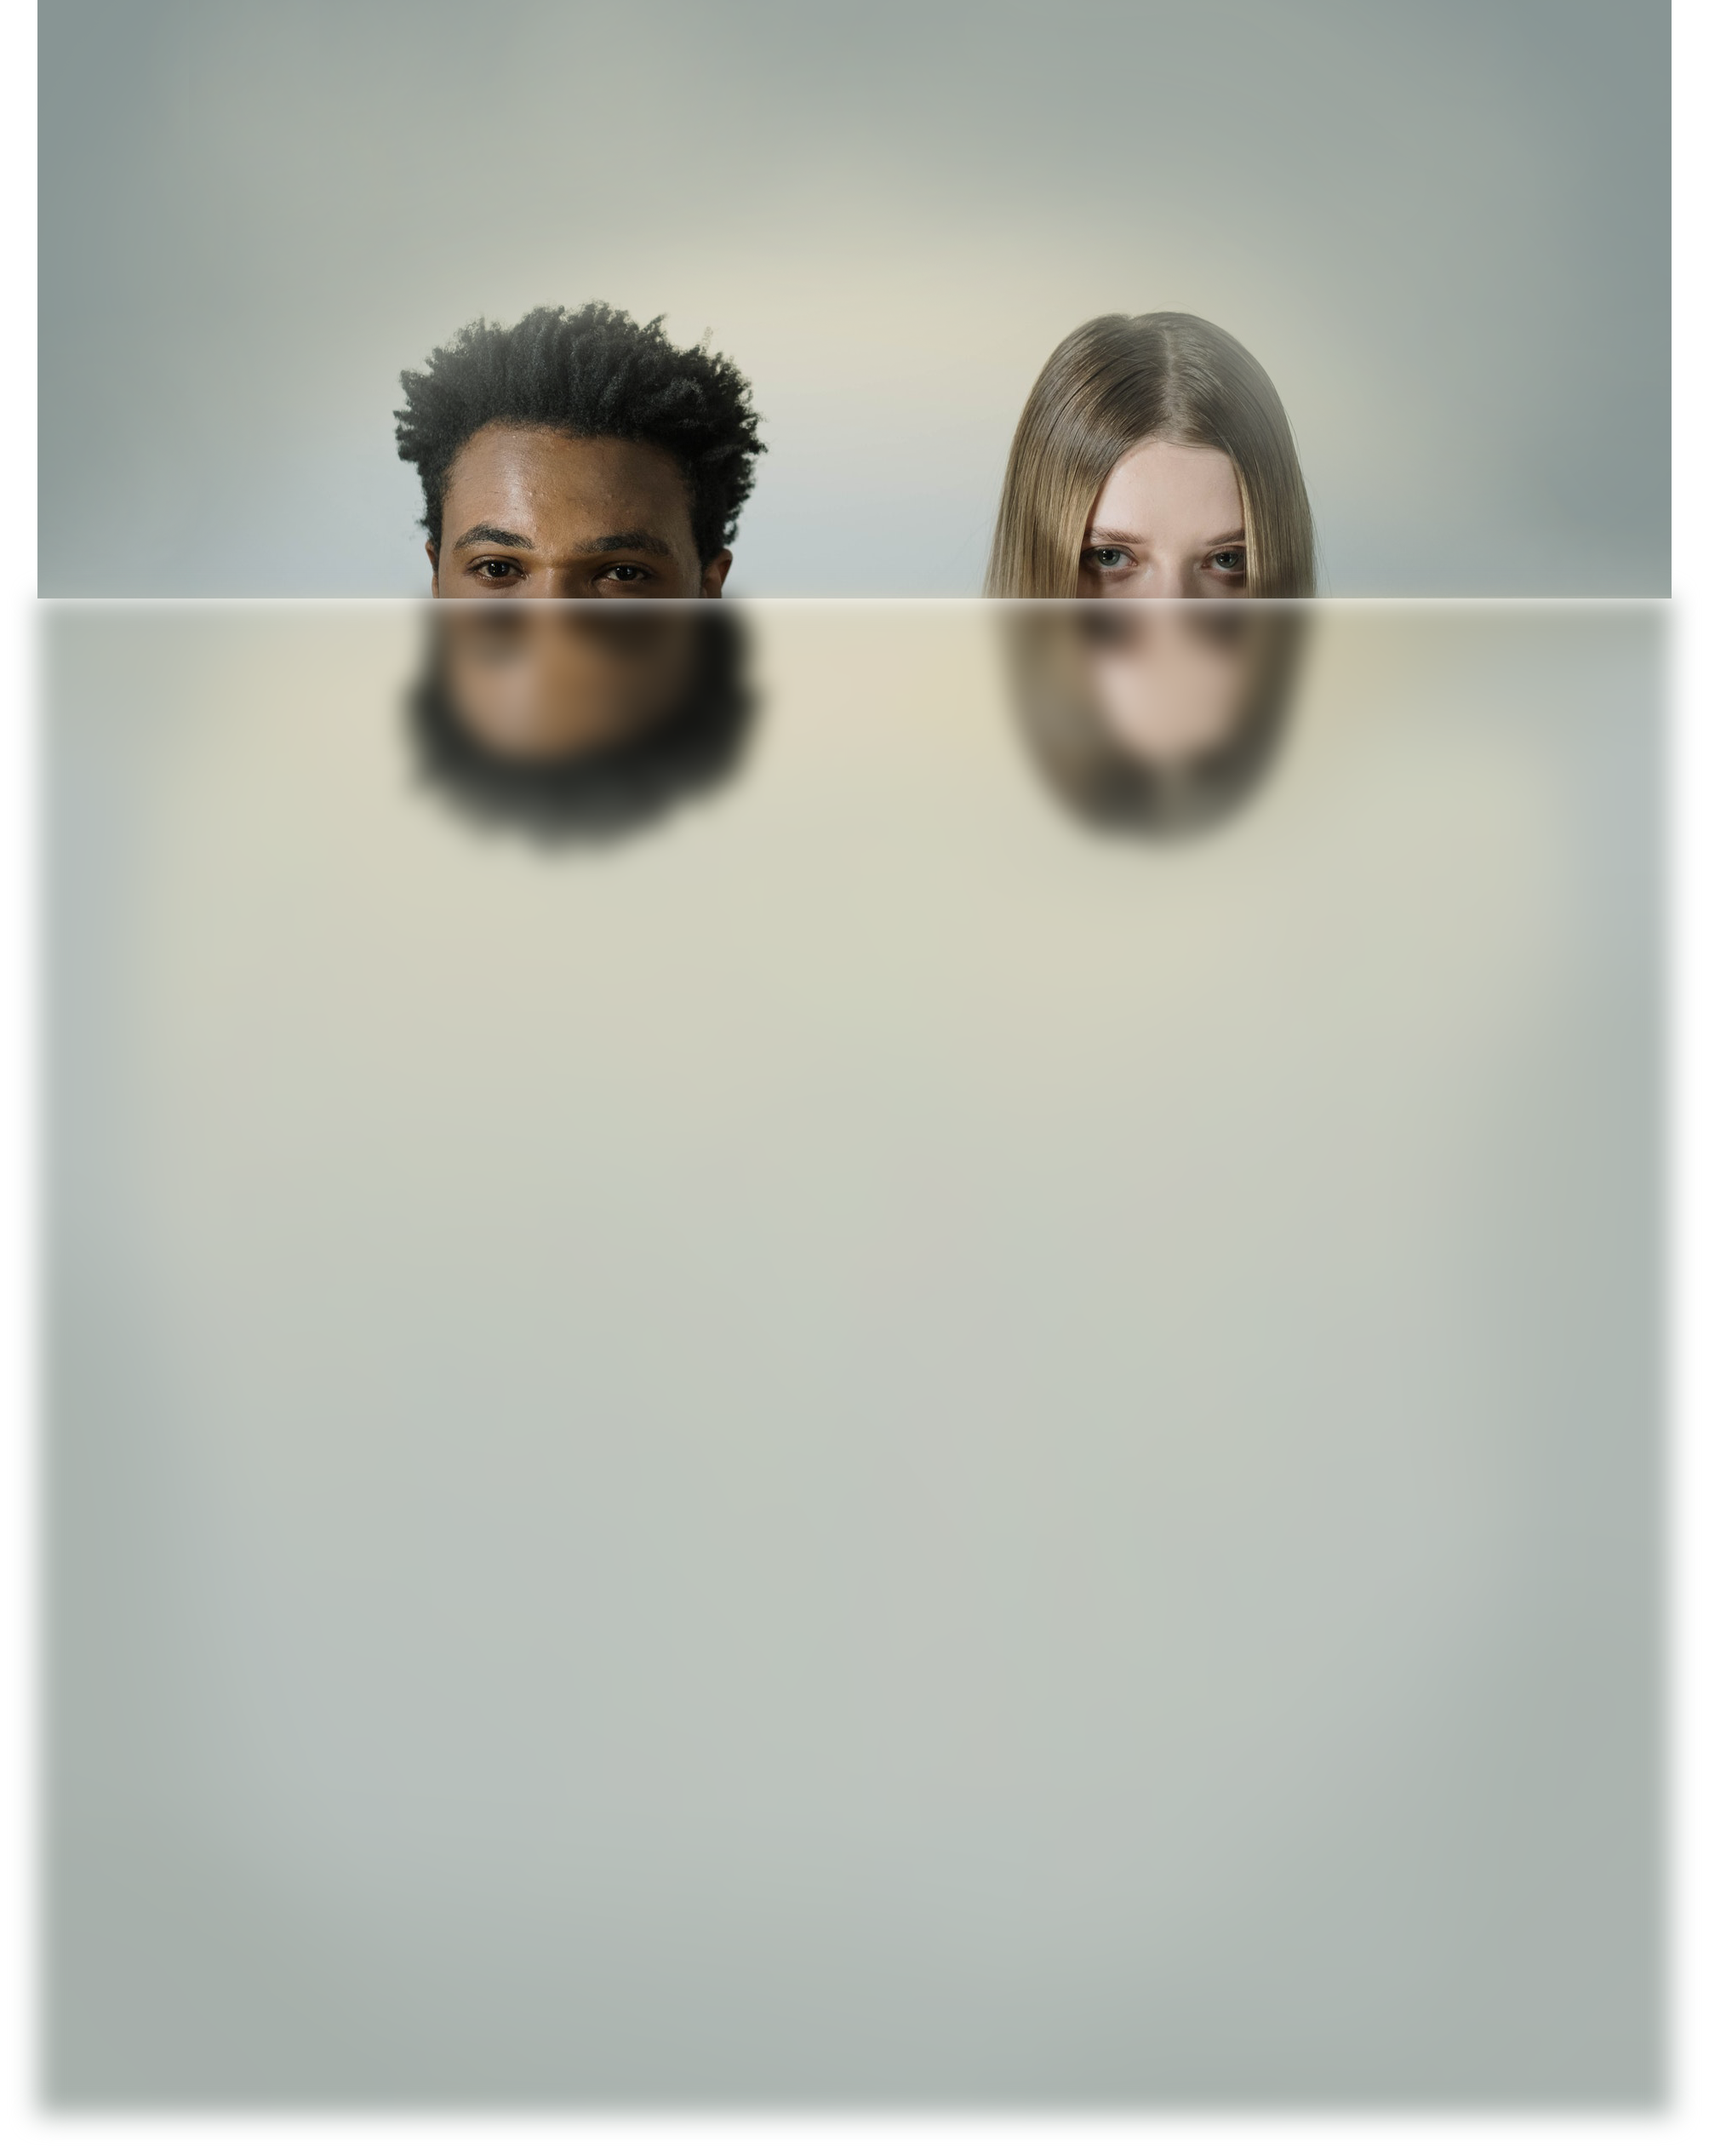
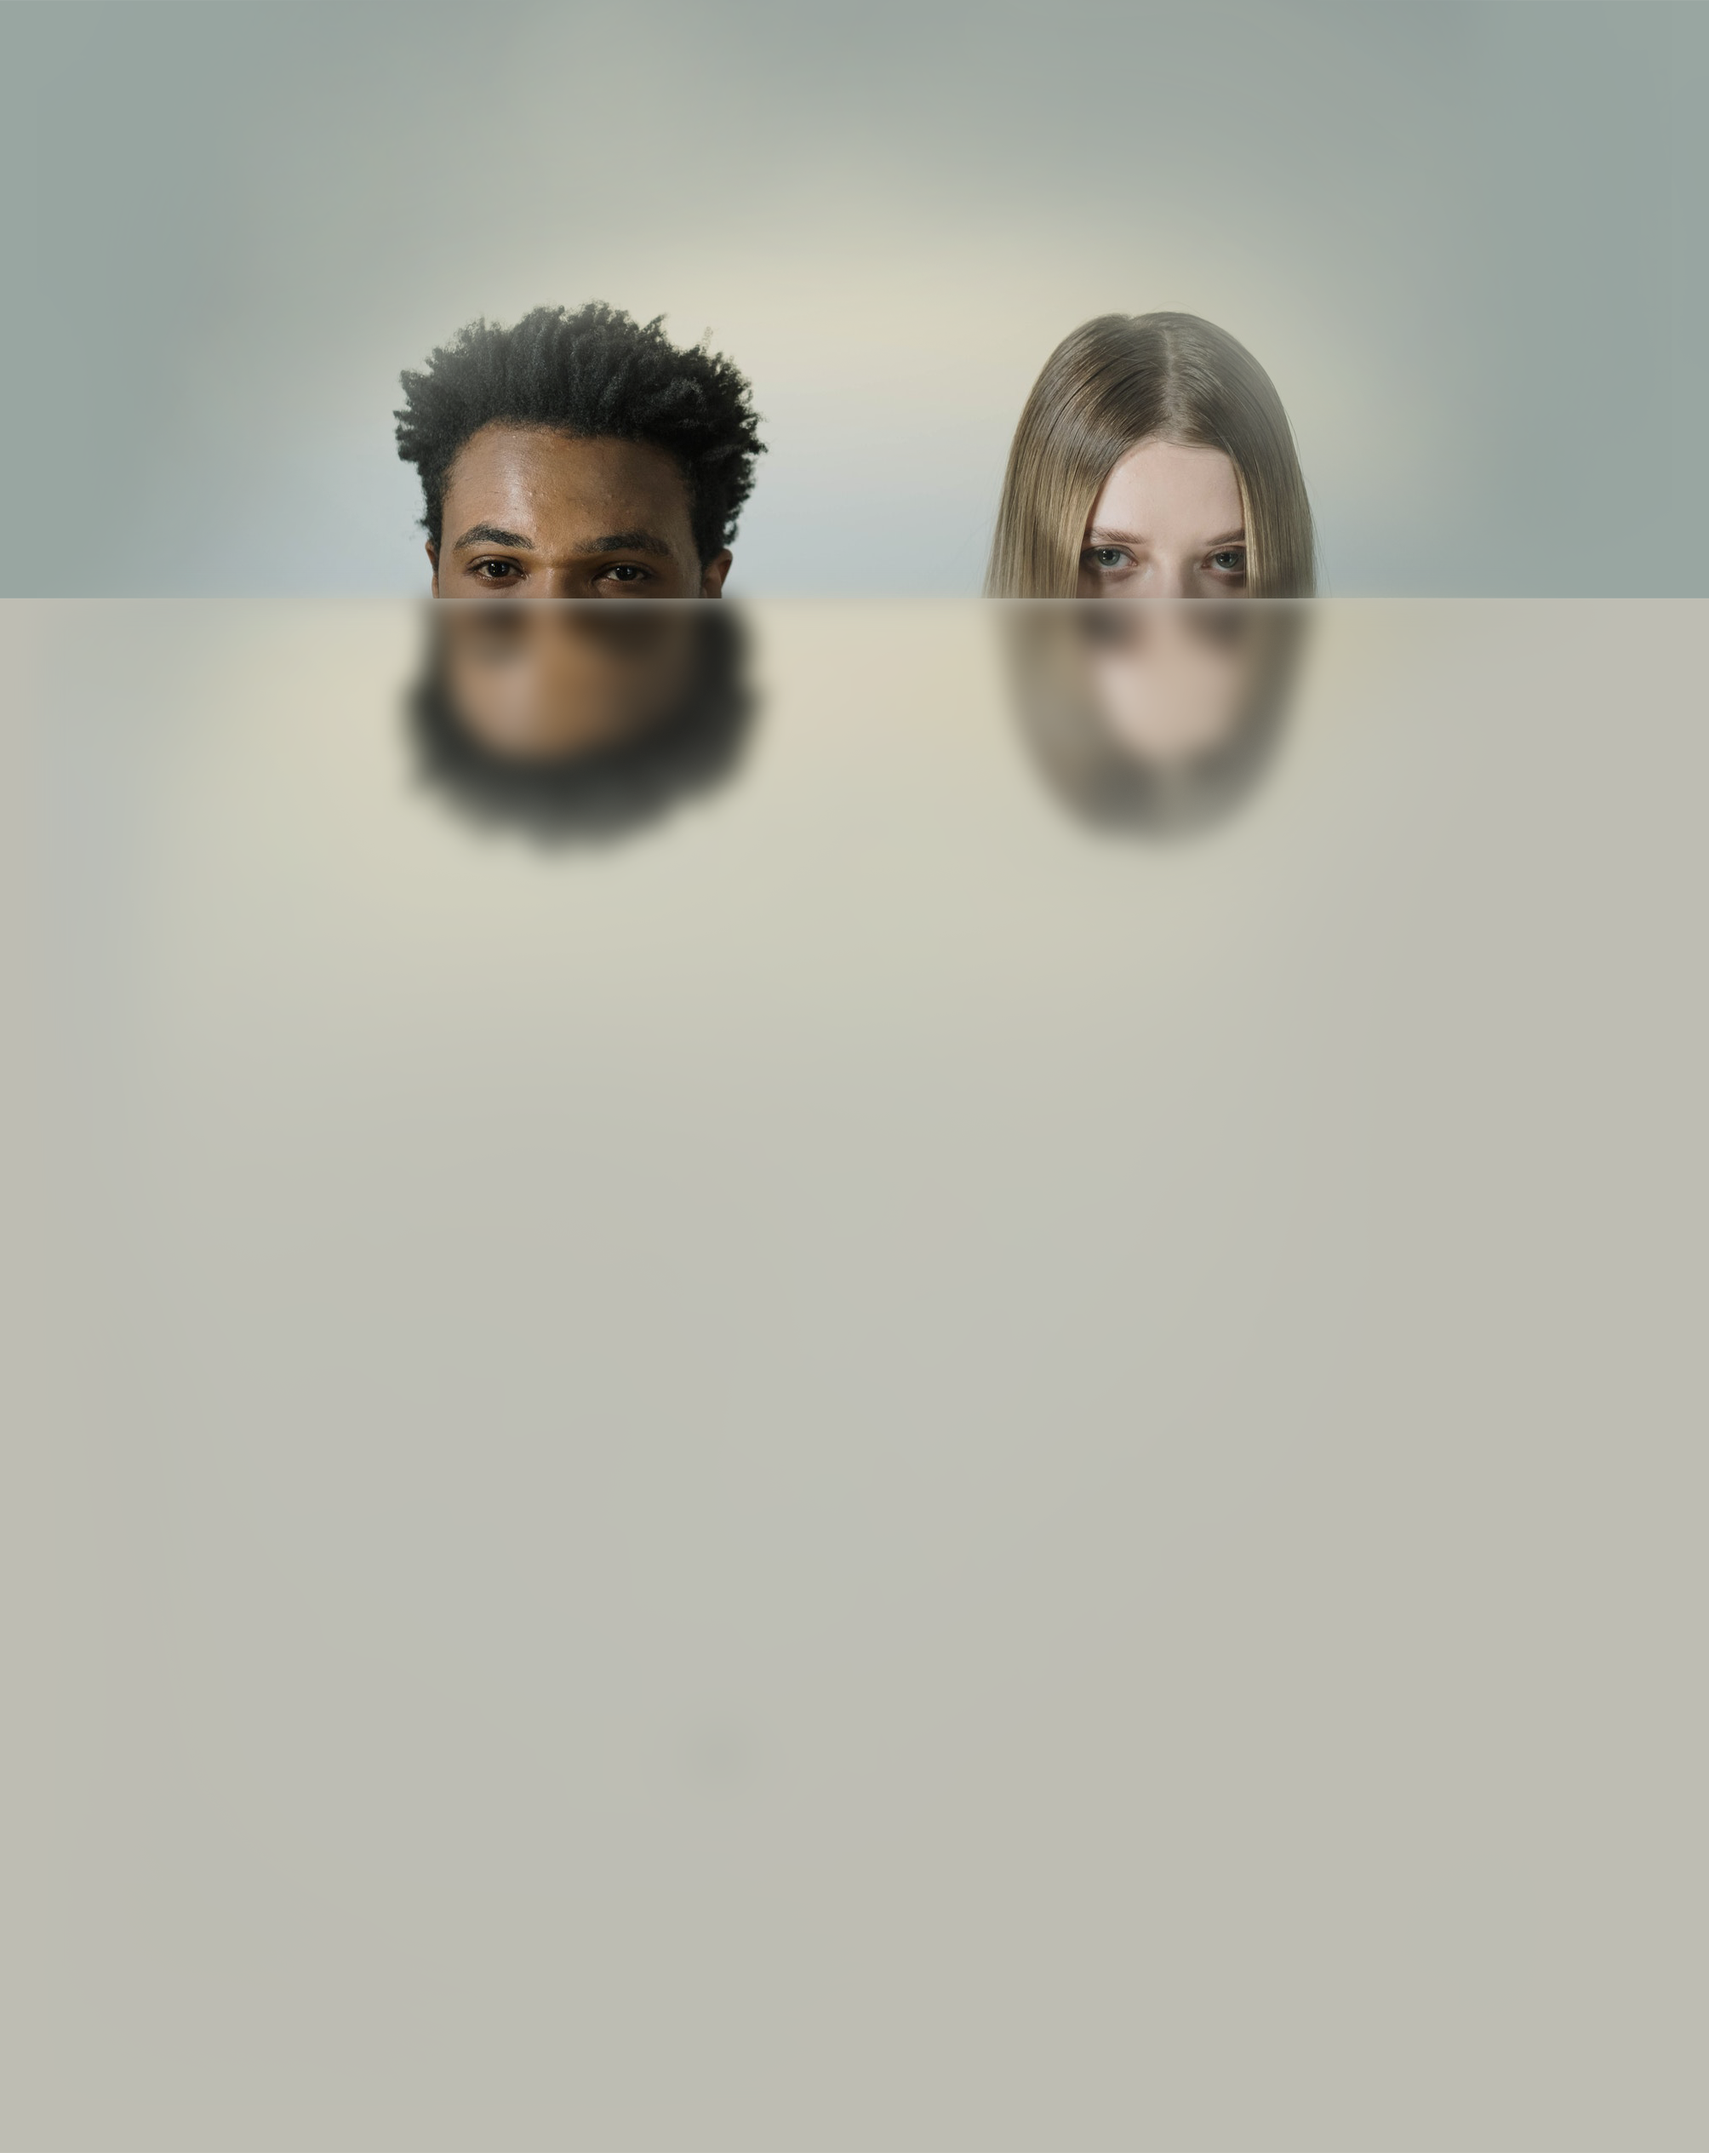
selection changes

Changed region(s): [[0.0, 0.0, 1.0, 1.0], [0.6175, 0.2811, 0.7719, 0.4061], [0.0926, 0.2499, 0.1853, 0.2811]]

diff --git a/src/components/selection.vue b/src/components/selection.vue
@@ -1,58 +1,68 @@
 <template>
   <div id="selection">
-    <div class="content">
-      <div class="selection-back">
-        <div class="selection-heading">
-          <h2>Do u want to meet your Alter_ID?</h2>
-          <p>Select your mode, enter your e-mail address & send request for your own Alter_ID.</p>
-        </div>
-        <div class="row selection">
-          <div class="col-4"
-               v-for="mode in modes"
-               v-bind:key="mode.id">
-            <a href="#" class="col-12 selectable"
-               v-on:click="changeMode(mode.id, $event)"
-               :class="{active: mode.id===activeMode}">
-              <div class="selectable-inner">
-                <div class="title-wrapper">
-                  <h3>{{ mode.name }}</h3>
-                  <span class="subtext">mode</span>
-                </div>
-                <p>
-                  <span class="short">{{ mode.subtitle }}</span>
-                  {{ mode.description }}
-                </p>
-                <ul>
-                  <li v-for="attribute in mode.attributes" v-bind:key="attribute.id">{{ attribute }}</li>
-                </ul>
-              </div>
-              <div class="ticker" :class="{ticked: mode.id === activeMode}"></div>
-            </a>
+    <div class="selection-back">
+      <div class="selection-heading-container">
+        <div class="content">
+          <div class="selection-heading">
+            <h2>Do u want to meet your Alter_ID?</h2>
+            <p>Select your mode, enter your e-mail address & send request for your own Alter_ID.</p>
           </div>
         </div>
-        <div class="input-container">
-          <label class="terms-conditions">
-            <input type="checkbox" id="checkbox">
-            <span class="checkmark"></span>
-            <span class="agreed">I agree with <a href="">terms&conditions</a> and <a href="">privacy policy</a></span>
-          </label>
-          <form action="" method="post">
-            <input type="email" name="email" placeholder="enter your E-mail">
-            <input type="submit" name="submit" value="request your Alter_ID">
-          </form>
-        </div>
-        <div id="footer">
-          <div class="content">
-            <ul class="footer-navigation">
-              <li>About</li>
-              <li>App</li>
-              <li>How it works</li>
-              <li>Contact</li>
-            </ul>
-            <div class="footer-signature">
-              Alter_ID, 2021
+      </div>
+      <div class="selection-container">
+        <div class="content">
+          <div class="selection">
+            <div class="content">
+              <div class="row">
+                <div class="col-4"
+                     v-for="mode in modes"
+                     v-bind:key="mode.id">
+                  <a href="#" class="col-12 selectable"
+                     v-on:click="changeMode(mode.id, $event)"
+                     :class="{active: mode.id===activeMode}">
+                    <div class="selectable-inner">
+                      <div class="title-wrapper">
+                        <h3>{{ mode.name }}</h3>
+                        <span class="subtext">mode</span>
+                      </div>
+                      <p>
+                        <span class="short">{{ mode.subtitle }}</span>
+                        {{ mode.description }}
+                      </p>
+                      <ul>
+                        <li v-for="attribute in mode.attributes" v-bind:key="attribute.id">{{ attribute }}</li>
+                      </ul>
+                    </div>
+                    <div class="ticker" :class="{ticked: mode.id === activeMode}"></div>
+                  </a>
+                </div>
+              </div>
+            </div>
+            <div class="input-container">
+              <label class="terms-conditions">
+                <input type="checkbox" id="checkbox">
+                <span class="checkmark"></span>
+                <span class="agreed">I agree with <a href="">terms&conditions</a> and <a href="">privacy policy</a></span>
+              </label>
+              <form action="" method="post">
+                <input type="email" name="email" placeholder="enter your E-mail">
+                <input type="submit" name="submit" value="request your Alter_ID">
+              </form>
             </div>
           </div>
+        </div>
+      </div>
+    </div>
+    <div id="footer">
+      <div class="content">
+        <ul class="footer-navigation">
+          <li>About</li>
+          <li>App</li>
+          <li>How it works</li>
+          <li>Contact</li>
+        </ul>
+        <div class="footer-signature">
+          Alter_ID, 2021
         </div>
       </div>
     </div>
@@ -119,8 +129,7 @@ export default {
 @import '../assets/css/colors';
 
 #selection {
-  background: #8b9796;
-  padding: 0 0 70px 0;
+  background: #bebdb3;
 
   .content{
     overflow: visible;
@@ -128,18 +137,22 @@ export default {
   }
 
   .selection-back{
-    position: relative;
-    margin-left: -80px;
-    margin-right: -80px;
-    background: url("../assets/images/selection/back.png");
-    background-repeat: no-repeat;
-    background-size: 100%;
-    padding: 0 80px
+    //position: relative;
+  }
+
+  .selection-heading-container{
+    background: #99a6a1;
   }
 
   .selection-heading {
-    height: 431px;
-    padding-top: 50px;
+    height: 441px;
+    margin-left: -80px;
+    margin-right: -80px;
+    padding: 50px 80px 0;
+    background-repeat: no-repeat;
+    background-size: 100%;
+    background-image: url("../assets/images/selection/back.png");
+    background-color: #99a6a1;
 
     h2{
       color: #fff;
@@ -153,18 +166,28 @@ export default {
     }
   }
 
+  .selection-container{
+    background: #bebdb3;
+  }
+
   .selection {
-    height: 600px;
-    margin: 100px 0 30px 0 ;
+    padding: 90px 0 30px 0;
+    margin-left: -80px;
+    margin-right: -80px;
+    //padding: 50px 80px 0;
+    background-repeat: no-repeat;
+    background-size: 100%;
+    background-image: url("../assets/images/selection/back.png");
+    background-position:  0 -441px;
 
     & > div:first-child{
       padding-left: 0;
-      padding-right: 18px;
+      //padding-right: 18px;
     }
 
     & > div:last-child{
       padding-right: 0;
-      padding-left: 18px;
+      //padding-left: 18px;
     }
 
     .selectable{
@@ -174,7 +197,7 @@ export default {
       border-radius: 7px;
       display: block;
       width: 100%;
-      height: 100%;
+      height: 580px;
       padding: 0;
       position: relative;
 
@@ -243,6 +266,10 @@ export default {
         left: 50%;
         margin-left: -23px;
         position: absolute;
+
+        &.ticked {
+          background-image: url("../assets/images/selection/selectmode_check.png");
+        }
       }
 
       &:hover, &.active{
@@ -339,7 +366,8 @@ export default {
   }
 
   .input-container{
-    padding: 40px 0 80px 0;
+    padding: 80px 0 80px 0;
+    margin: 0 80px;
     border-bottom: 1px solid $aid-gray;
 
     input[type=email]{
@@ -366,7 +394,15 @@ export default {
       font-size: 18px;
       border-bottom-right-radius: 2px;
       border-top-right-radius: 2px;
-      color: white
+      color: white;
+
+      &:hover{
+        background: lighten($aid-orange, 5%);
+      }
+
+      &:active{
+        background: darken($aid-orange,5%);
+      }
     }
   }
 
@@ -374,6 +410,9 @@ export default {
     color: darken($aid-gray, 10%);
     line-height: 29px;
     font-size: 18px;
+    clear: both;
+    padding: 0 0 70px 0;
+    background: linear-gradient(to bottom, #bebdb3, lighten(#bebdb3, 5%));
 
     ul{
       padding-top: 10px;

diff --git a/public/index.html b/public/index.html
@@ -4,7 +4,8 @@
     <meta charset="utf-8">
     <meta http-equiv="X-UA-Compatible" content="IE=edge">
     <meta name="viewport" content="width=device-width,initial-scale=1.0">
-    <link rel="icon" href="<%= BASE_URL %>favicon.ico">
+      <link rel="icon" type="image/png" sizes="32x32" href="<%= BASE_URL %>favicon-32x32.png">
+      <link rel="icon" type="image/png" sizes="16x16" href="<%= BASE_URL %>favicon-16x16.png">
     <link rel="stylesheet" href="https://use.typekit.net/cem2mfg.css">
     <title>Alter_ID | Your virtual clone assistant</title>
   </head>
